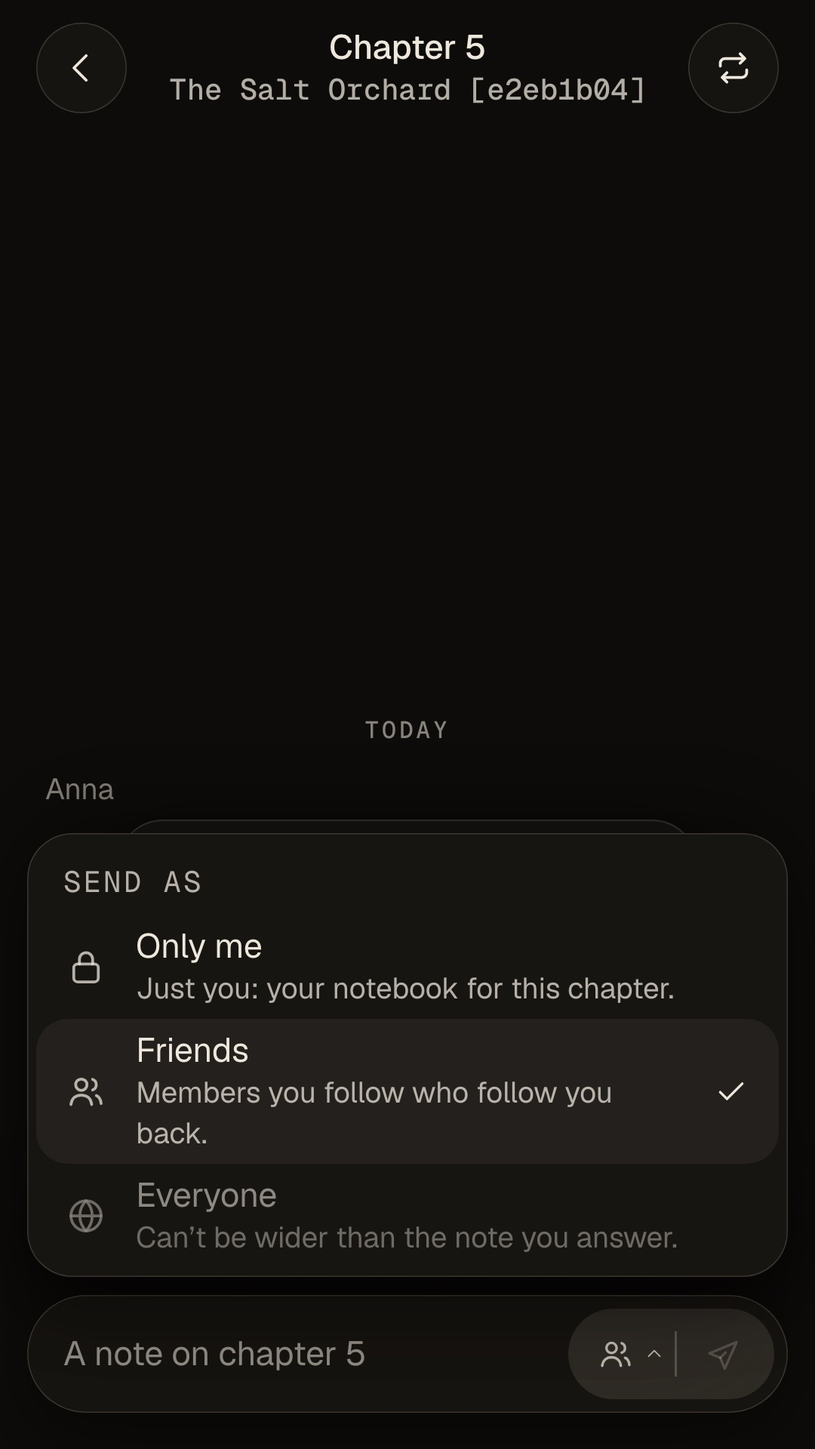
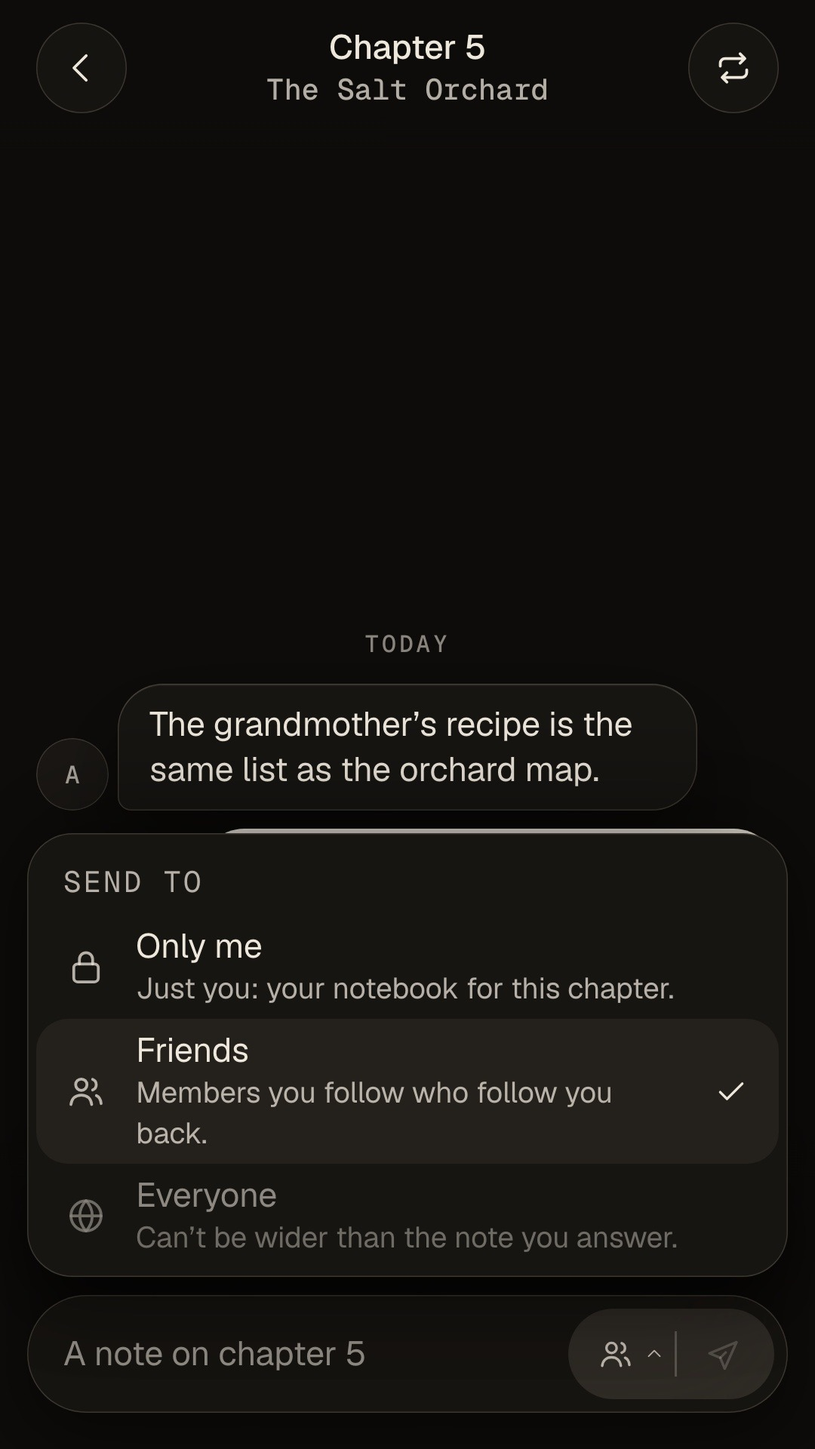
chore(notes): send to, and the new composer
@fabkho/ui v0.13.2: the tab and the menu of the split send button say
"Send to" / "Senden an" (the API names are unchanged), and the soft
keyboard stays up through a whole voice recording (it closes only on a
cancel). The app supplies ui.text from its own messages, so the words are
the app's: web/i18n/locales/en.json and de.json.

The Notes and buddy flows assert what a desktop browser can see of the
keyboard: the field stays mounted and focused through the hold, the lock
and the send, and is blurred only after a cancel.

diff --git a/web/e2e/notes-voice.spec.ts b/web/e2e/notes-voice.spec.ts
@@ -314,3 +314,99 @@ test('a send without a connection is told plainly, waits for a tap and is stored
   await ida.context().setOffline(false)
   expect(await voiceRows(idaMember.id)).toHaveLength(1)
 })
+
+/**
+ * The soft keyboard through a whole recording (@fabkho/ui 0.13.2). A desktop browser has no system keyboard, so it is emulated the
+ * way the base reads one: the layout viewport shrinks under the tallest height this width was seen at (291 px, the keyboard the
+ * docs' shots draw). What is asserted is what that reading drives and what the DOM shows: the capsule still says `data-keyboard`
+ * and still stands on the emulated keyboard, the field stays mounted and focused (`document.activeElement`) through the hold, the
+ * lock and the send — an unmounted field sends no blur, but it would take the keyboard with it — and only a cancel blurs it. The
+ * system keyboard itself is a real device's (docs/TESTING.md).
+ */
+test('the field keeps the keyboard through a whole voice note: hold, lock and send leave it mounted and focused, and only a cancel closes it @full', { tag: '@full' }, async ({ page: ida }) => {
+  test.setTimeout(120_000)
+  const idaMember = await signedIn(ida)
+  const bookId = await shelveBook(idaMember, sharedBook('The Voice Keyboard Flow'), 'reading')
+  await makeChapters(idaMember, bookId, 2)
+  await goto(ida, `/notes/${bookId}/1`)
+  await expect(ida.getByTestId('notesThread.screen')).toHaveAttribute('data-status', 'ready')
+  await chooseLevel(ida, 'private')
+
+  const input = ida.getByTestId('notesThread.input')
+  const capsule = ida.getByTestId('notesThread.composer')
+  /** Whose the page's focus is: the field's test id, or whatever else took it (the body, a button). */
+  const focused = () => ida.evaluate(() => document.activeElement?.getAttribute('data-testid') ?? document.activeElement?.tagName ?? 'none')
+  /** The field is in the page (not unmounted), out of the layout, and keeps the focus: what the vendor's fix does while a recording runs. */
+  const awayButFocused = async () => {
+    await expect(input).toHaveCount(1)
+    await expect(input).toHaveClass(/field-away/)
+    expect(await focused()).toBe('notesThread.input')
+  }
+  const stillUp = async (when: string) => {
+    await expect(capsule, when).toHaveAttribute('data-keyboard', 'true')
+    await expect(ida.getByTestId('notesThread.recorder'), when).toBeVisible()
+  }
+
+  // The keyboard up: the field takes the focus at the page's own height (the reading's tallest), then the layout viewport shrinks by the keyboard's 291 px.
+  const tall = ida.viewportSize()!
+  await input.click()
+  await expect(input).toBeFocused()
+  await ida.setViewportSize({ width: tall.width, height: tall.height - 291 })
+  await expect(capsule).toHaveAttribute('data-keyboard', 'true')
+  const onKeyboard = async (where: string) => {
+    const box = (await capsule.boundingBox())!
+    expect(box.y + box.height, where).toBeLessThanOrEqual(tall.height - 291 + 1)
+  }
+  await onKeyboard('the capsule at rest, on the emulated keyboard')
+
+  // A TAP on the microphone starts the recording: the field leaves the layout (never the page) and keeps the focus, and the capsule stays on the keyboard through the panel.
+  await ida.getByTestId(MIC).click()
+  await stillUp('a tap, recording')
+  await awayButFocused()
+  await onKeyboard('recording, on the emulated keyboard')
+  await expect(ida.getByTestId('notesThread.voiceTimer')).toHaveAttribute('data-ms', /^[1-9]\d{3}$/, { timeout: 10_000 })
+
+  // ✕ is the one end that closes it: the keyboard goes with the field's blur, and the field is back in the layout.
+  await ida.getByTestId('notesThread.voiceCancel').click()
+  await expect(ida.getByTestId('notesThread.recorder')).toHaveCount(0)
+  await expect(capsule).not.toHaveAttribute('data-keyboard', 'true')
+  expect(await focused()).not.toBe('notesThread.input')
+  await expect(input).not.toHaveClass(/field-away/)
+  expect(await voiceRows(idaMember.id)).toHaveLength(0)
+
+  // Up again, and a HOLD: the keyboard holds through the hold, the LOCK (the finger lets go, the recording goes on) and the panel's own send.
+  await input.click()
+  await expect(capsule).toHaveAttribute('data-keyboard', 'true')
+  const f = await finger(ida, MIC)
+  await f.down()
+  await stillUp('a hold to record')
+  await awayButFocused()
+  await expect(ida.getByTestId('notesThread.recorder')).toHaveAttribute('data-hold', 'true')
+  await expect(ida.getByTestId('notesThread.voiceTimer')).toHaveAttribute('data-ms', /^[1-9]\d{3}$/, { timeout: 10_000 })
+  await ida.waitForTimeout(700)
+  await f.move(-2, -35)
+  await f.move(-3, -80)
+  await f.up(-3, -80)
+  await expect(ida.getByTestId('notesThread.recorder')).not.toHaveAttribute('data-hold', 'true')
+  await stillUp('locked')
+  await awayButFocused()
+  await onKeyboard('locked, on the emulated keyboard')
+  await ida.getByTestId('notesThread.voiceSend').click()
+  await expect(ida.getByTestId('notesThread.recorder')).toHaveCount(0)
+  await expect(input).not.toHaveClass(/field-away/)
+  expect(await focused()).toBe('notesThread.input')
+  await expect(capsule).toHaveAttribute('data-keyboard', 'true')
+  await expect(voices(ida)).toHaveCount(1)
+  await expect.poll(async () => (await voiceRows(idaMember.id)).length, { timeout: 20_000 }).toBe(1)
+
+  // A take too short to send is no cancel either: said, thrown away, and the field has its focus and its keyboard back.
+  await ida.getByTestId(MIC).click()
+  await expect(ida.getByTestId('notesThread.recorder')).toBeVisible()
+  await ida.getByTestId('notesThread.voiceSend').click()
+  await expect(ida.getByTestId('notesThread.mediaError')).toHaveText(en.notes.error.voice_short)
+  await expect(ida.getByTestId('notesThread.recorder')).toHaveCount(0)
+  await expect(input).not.toHaveClass(/field-away/)
+  expect(await focused()).toBe('notesThread.input')
+  await expect(capsule).toHaveAttribute('data-keyboard', 'true')
+  expect(await voiceRows(idaMember.id)).toHaveLength(1)
+})

diff --git a/web/e2e/buddy-voice.spec.ts b/web/e2e/buddy-voice.spec.ts
@@ -98,15 +98,16 @@ test('Ida records a voice message in a Section thread; Ben gets it live and play
     await expect(ida.getByTestId('buddyThread.record')).toHaveCount(0)
     await ida.getByTestId('buddyThread.input').fill('')
 
-    // A tap starts: the capsule is the recording bar, the field gives way, the timer runs; ✕ throws it away and nothing is stored.
+    // A tap starts: the capsule is the recording bar, the field leaves the layout but stays in the page (its focus keeps the soft keyboard up, `@fabkho/ui` 0.13.2), the timer runs; ✕ throws it away and nothing is stored.
     await ida.getByTestId('buddyThread.record').click()
     await expect(ida.getByTestId('buddyThread.recorder')).toBeVisible()
-    await expect(ida.getByTestId('buddyThread.input')).toHaveCount(0)
+    await expect(ida.getByTestId('buddyThread.input')).toHaveCount(1)
+    await expect(ida.getByTestId('buddyThread.input')).toHaveClass(/field-away/)
     await expect(ida.getByTestId('buddyThread.recordingStatus')).toContainText(en.uiText.chat.voice.recording)
     await expect(ida.getByTestId('buddyThread.voiceTimer')).not.toHaveText('0:00', { timeout: 5_000 })
     await ida.getByTestId('buddyThread.voiceCancel').click()
     await expect(ida.getByTestId('buddyThread.recorder')).toHaveCount(0)
-    await expect(ida.getByTestId('buddyThread.input')).toBeVisible()
+    await expect(ida.getByTestId('buddyThread.input')).not.toHaveClass(/field-away/)
     expect(await sql(`select 1 from public.buddy_messages where buddy_read_id = $1 and kind = 'voice'`, [made.id])).toHaveLength(0)
 
     // A slip of the finger is no message: said above the thread, nothing stored.

diff --git a/web/e2e/book-notes.spec.ts b/web/e2e/book-notes.spec.ts
@@ -59,7 +59,7 @@ async function chooseLevel(page: Page, level: 'private' | 'friends' | 'public') 
   await expect(page.getByTestId('notesThread.sendAsMenu')).toHaveCount(0)
 }
 
-/** The audience is on the button itself, before anything is sent: the tab ("Send as: Everyone") and the send button ("Send · Everyone") name it. */
+/** The audience is on the button itself, before anything is sent: the tab ("Send to: Everyone") and the send button ("Send · Everyone") name it. */
 async function expectLevel(page: Page, level: 'private' | 'friends' | 'public', words: typeof en | typeof de = en) {
   // The tab is always there; the send button says the audience too, but at Only me with an empty field the microphone stands in its place (a voice note).
   await expect(page.getByTestId('notesThread.sendAs')).toHaveAttribute('aria-label', `${words.uiText.chat.composer.sendAs}: ${words.notes.level[level]}`)

diff --git a/web/e2e/a11y.spec.ts b/web/e2e/a11y.spec.ts
@@ -547,7 +547,7 @@ test.describe('accessibility, notes', { tag: '@full' }, () => {
     await expectAccessible(page, 'the Show anyway question')
     await page.getByTestId('notes.showAnyway.cancel').click()
 
-    // Her chapter: the thread, the split send button (a tab named "Send as: …", a send button named "Send · …", both 44 px; its menu of radios), the action bar's sheets.
+    // Her chapter: the thread, the split send button (a tab named "Send to: …", a send button named "Send · …", both 44 px; its menu of radios), the action bar's sheets.
     await goto(page, `/notes/${bookId}/3`)
     await expect(page.getByTestId('notesThread.bubble').filter({ hasText: 'A friend’s note' })).toBeVisible()
     await expectAccessible(page, 'a chapter')

diff --git a/docs/parity.md b/docs/parity.md
@@ -1460,8 +1460,8 @@ Layout: the round back, the title ("Chapter 5", the Book under it), Refresh; the
 The veil: a chapter that is not open to her (her chapter has not reached it and she has not opened it anyway) is **not read at all**: the quiet screen "Chapter 9 is hidden" with **Show anyway** and nothing of the chapter asked of the database before her yes; with it, the thread opens and focus goes to the composer. A chapter that does not exist, or a Book without Notes: one quiet answer.
 States: loading · empty ("No notes on chapter 5 yet.") · notes · veiled · missing · error with the thread kept · offline (writes say Offline).
 Actions → result: send, reply (swipe or the bar), react (double tap puts ❤; one reaction a member and note), copy, delete (confirm: "Note removed" for everyone who could see it), report, block, change her note's audience, refresh, Show anyway.
-**Voice notes, for her own private notes** (docs/plans/book-notes.md; `supabase/migrations/20261118010000_notes_private_voice.sql`). The composer draws the microphone **only while the split send button is on Only me** (`voiceMaxMs` is passed for that one option, and only when the note is new or answers her own live private note: a voice answer to anybody else's note is refused by the database). At Friends or Everyone there is no microphone and the button shows Send; an answer is offered only while the quoted note is her own private one (a Reply tapped on another note while a recording ran is dropped with its quote, never sent to be refused by the database); the button's tab is away while a recording runs (the composer shows the recording), so the audience cannot change under a recording, and a recording that reaches the send at another audience is not posted (it is dropped, with "A voice note is always just for you."). A tap on the microphone records in the panel (✕, the live bars, the timer, send); **hold** records and **let go** sends, **slide up** locks, **slide left** throws it away (the base's gestures, the same haptics, the same single-pointer alternative as a buddy read's). Up to two minutes, 3 MB, a slip of the finger under a second is no note. A recording is a **private note of its own**: her bubble at once (the base's voice bubble: play or pause, progress, length, waveform), the lock and **Only me** under it like her other private notes, no Spoiler and no audience to give. It is stored in her own folder of the private bucket `note-voice` first and posted after (`post_note_voice`, private, no visibility parameter), through the same send queue as a text; **offline** the recording is kept in memory, the bubble reads "You're offline." with **Try again** (stores and posts it from the copy in memory) and **Delete**, nothing is lost until she leaves the page (a reload loses a recording that was not stored yet, the same as a buddy read's); one that waited more than 4 hours in the line is not sent ("That recording didn't upload."). **Nothing is signed or fetched when a thread loads**: the first press on play asks for a URL of five minutes (`createSignedUrl`, kept for four), a second press pauses, one voice at a time, leaving the thread silences it; a note she has just recorded plays from the copy on her device. Nobody but her ever sees a voice note: not in anyone's thread, count, face or Book line, not for her friends, Everyone, the owner or a blocked member, and nobody can sign a URL for it (the bucket's policy lets its author alone through). **Who can see this** shows a voice note as **Only me** alone, with the line "A voice note stays Only me: only you can ever hear it." (the database refuses to widen one: `voice_private_only`). The quote of a voice note, over her answer and in the composer, reads **Voice message** (*Sprachnachricht*). Deleting one leaves "Note removed" and the sound is removed from storage shortly after, normally within the hour (and the owner's removal, and her account's deletion, the same).
-Edge cases: nothing about the audience can fold with the keyboard (it lives in the send button, which is always there); the Everyone line stays over the capsule while the field has the keyboard; German up to half as long again wraps and the button fits 360 px (*Nur ich · Freunde · Alle*); every control is 44 px. A voice note's bar has no Copy (it has no words); its bar otherwise is her other notes': the six reactions, Reply, **Who can see this**, **Delete**.
+**Voice notes, for her own private notes** (docs/plans/book-notes.md; `supabase/migrations/20261118010000_notes_private_voice.sql`). The composer draws the microphone **only while the split send button is on Only me** (`voiceMaxMs` is passed for that one option, and only when the note is new or answers her own live private note: a voice answer to anybody else's note is refused by the database). At Friends or Everyone there is no microphone and the button shows Send; an answer is offered only while the quoted note is her own private one (a Reply tapped on another note while a recording ran is dropped with its quote, never sent to be refused by the database); the button's tab is away while a recording runs (the composer shows the recording), so the audience cannot change under a recording, and a recording that reaches the send at another audience is not posted (it is dropped, with "A voice note is always just for you."). A tap on the microphone records in the panel (✕, the live bars, the timer, send); **hold** records and **let go** sends, **slide up** locks, **slide left** throws it away (the base's gestures, the same haptics, the same single-pointer alternative as a buddy read's). **The soft keyboard stays up through the recording** (`@fabkho/ui` 0.13.2): the field is never unmounted for it — it leaves the layout (one drawn pixel, `tabindex="-1"`, still in the page and the accessibility tree) and keeps the focus, so the capsule stays over the keyboard through the hold, the lock and the panel; a recording that was sent, too short or failed gives the field its focus back, and only a cancel (✕, a slide away) blurs it and closes the keyboard. A composer at rest stays at rest: recording never opens one. Up to two minutes, 3 MB, a slip of the finger under a second is no note. A recording is a **private note of its own**: her bubble at once (the base's voice bubble: play or pause, progress, length, waveform), the lock and **Only me** under it like her other private notes, no Spoiler and no audience to give. It is stored in her own folder of the private bucket `note-voice` first and posted after (`post_note_voice`, private, no visibility parameter), through the same send queue as a text; **offline** the recording is kept in memory, the bubble reads "You're offline." with **Try again** (stores and posts it from the copy in memory) and **Delete**, nothing is lost until she leaves the page (a reload loses a recording that was not stored yet, the same as a buddy read's); one that waited more than 4 hours in the line is not sent ("That recording didn't upload."). **Nothing is signed or fetched when a thread loads**: the first press on play asks for a URL of five minutes (`createSignedUrl`, kept for four), a second press pauses, one voice at a time, leaving the thread silences it; a note she has just recorded plays from the copy on her device. Nobody but her ever sees a voice note: not in anyone's thread, count, face or Book line, not for her friends, Everyone, the owner or a blocked member, and nobody can sign a URL for it (the bucket's policy lets its author alone through). **Who can see this** shows a voice note as **Only me** alone, with the line "A voice note stays Only me: only you can ever hear it." (the database refuses to widen one: `voice_private_only`). The quote of a voice note, over her answer and in the composer, reads **Voice message** (*Sprachnachricht*). Deleting one leaves "Note removed" and the sound is removed from storage shortly after, normally within the hour (and the owner's removal, and her account's deletion, the same).
+Edge cases: nothing about the audience can fold with the keyboard (it lives in the send button, which is always there); its tab and its menu say whom the note goes to, not how it is sent (**"Send to"**, "Senden an"; the API names are `sendAs`/`sendOptions`); the Everyone line stays over the capsule while the field has the keyboard; German up to half as long again wraps and the button fits 360 px (*Nur ich · Freunde · Alle*); every control is 44 px. A voice note's bar has no Copy (it has no words); its bar otherwise is her other notes': the six reactions, Reply, **Who can see this**, **Delete**.
 Copy keys: `notes.thread.*` (`voiceQuote`, `voicePlayFailed`), `notes.visibilitySheet.voiceOnly`, `notes.report.*`, `notes.showAnyway.*`, `notes.error.*` (`voice_invalid`, `voice_missing`, `voice_too_large`, `voice_private_only`, `voice_short`, `voice_large`, `voice_type`), `people.block*`, `uiText.chat.*`
 IDs: `notesThread` (`.input`, `.send`, `.bubble`, `.message`, `.sender`, `.name`, `.public`, `.private`, `.quote`, `.quotePreview`, `.removed`, `.failed`, `.retry`, `.discard`, `.veil` (only on a message flagged in the old days: never drawn), `.reactionBar`, `.reactionAction.visibility|delete|report|block`, `.reactionReply`, `.quoteBar`, `.split`, `.sendAs` (the tab), `.sendAsWord`, `.sendAsMenu`, `.sendAs.private|friends|public`, and the voice parts the base draws: `.record`, `.recorder`, `.voiceTimer`, `.voiceSend`, `.voiceCancel`, `.holdHint`, `.mediaError`, `.voice`, `.voicePlay`, `.voiceWave`, `.voiceTime`), `notes.thread.title|book|empty|back|refresh|veiled|showAnyway|missing`, `notes.thread.delete` (`.confirm`), `notes.thread.block` (`.confirm`), `notes.report` (`.reason.<r>`, `.note`, `.action`, `.done`, `.close`, `.error`), `notes.visibilitySheet.voiceOnly`
 Flow: `web/e2e/book-notes.spec.ts` (writes at Friends, answers after Show anyway, the quote of a note she cannot see, a report, a block; the split send button: the control there at every moment, each choice posted as chosen, a reply's Everyone off); `web/e2e/notes-voice.spec.ts` (`@full`, Chromium with a fake microphone: the microphone at Only me and not at Friends or Everyone, record, the lock, a reload and nothing asked of the bucket until play, the friend sees nothing, the sheet cannot widen, delete and the sweep; hold, slide, an answer only to her own private note); `e2e/a11y.spec.ts` ("accessibility, notes"); the 7 buddy specs are the guard for the shared components.

diff --git a/docs/images/notes-composer-app/README.md b/docs/images/notes-composer-app/README.md
@@ -1,26 +1,29 @@
 # The composer, as it ships
 
 Shots of the built app (Chromium with a fake microphone, iPhone 15 in the flows' own configuration, device pixel ratio 3: WebKit cannot fake a
-microphone, and the microphone at Only me is half of what these show) after the split send button, the end of the spoiler marks, and the private
-voice notes: `docs/parity.md` (*Notes, a chapter*, *Notes, visibility*, *Buddy read, a thread*) and `docs/plans/notes-composer.md` (V3).
+microphone, and the microphone at Only me is half of what these show) after the split send button, the end of the spoiler marks, the private
+voice notes, and `@fabkho/ui` 0.13.2 (the tab and the menu say **Send to** / **Senden an**, and the field keeps the soft keyboard through a
+whole recording): `docs/parity.md` (*Notes, a chapter*, *Notes, visibility*, *Buddy read, a thread*) and `docs/plans/notes-composer.md` (V3).
 
 | Prefix | What |
 |---|---|
 | `1-rest` | a chapter's thread at rest: the capsule with the split send button on Friends |
-| `2-menu` | the tab opened: *Send as* — Only me, Friends (checked), Everyone, each with its line |
+| `2-menu` | the tab opened: *Send to* — Only me, Friends (checked), Everyone, each with its line |
 | `3-typing-keyboard` | typing, with a keyboard under it (291 px, drawn: WebKit has none); the button is untouched by the keyboard |
 | `3b-menu-keyboard` | the same with the menu open: it drops the hint lines where the keyboard leaves it little room |
 | `4-everyone` | *Everyone*: the send button in the lamp amber, the tab's word, the one quiet line over the capsule |
 | `5-onlyme` | *Only me*: the calm button, the tab's word, the note free to be written |
 | `5b-onlyme-mic` | *Only me* with nothing written: the **microphone** stands where Send is (a voice note is only ever hers) |
 | `5c-onlyme-typing-keyboard` | *Only me*, typing: Send again, the tab still says the audience |
+| `5d-onlyme-recording-keyboard` | *Only me*, a **hold** in progress: the keyboard stays up under the recording (the field kept the focus), the timer and "Slide to cancel" in the capsule |
+| `5e-onlyme-locked` | *Only me*, **locked**: the recording goes on without the finger, the panel (✕, the bars, the timer, send) on the keyboard that never went away |
 | `6-reply-menu` | answering Anna's Friends note: *Everyone* is in the menu, off, with the reason |
 | `7-buddy-rest` | a buddy-read Section: the field, the microphone, no Spoiler chip and nothing over the field |
 | `8-buddy-typing-keyboard` | the same, typing, with the keyboard |
 
 Four passes: 390×844 light EN, 390×844 dark DE, 360×640 light DE, 360×640 dark EN.
 
-They were taken by a throwaway Playwright spec (the flows' fixtures: a friend, a Book with 43 chapters, a buddy read) that screenshots the
+They were taken by a throwaway Playwright spec (the flows' fixtures: a friend, a Book with 43 chapters) that screenshots the
 page, shrinks the viewport by the keyboard's height, and composes the drawn keyboard under the shot. It is not committed: it is a few lines on
 `e2e/fixtures.ts` and the `@playwright/test` page API, and the mocks in `docs/prototypes/notes-composer/` (that PR) still exercise the same
 composer interactively.

diff --git a/docs/ACCESSIBILITY.md b/docs/ACCESSIBILITY.md
@@ -175,8 +175,12 @@ shimmer stops, the tab bar stays.
   "Recording"; the bubble's play button, length and waveform are the base's `UiVoiceBubble` (named, 44 px, `aria-live` on the play state); the lock and "Only me"
   under it are text, not colour. The quote of a voice note reads "Voice message" for a screen reader. `e2e/notes-voice.spec.ts` scans the thread with a voice
   note and a thread while recording in both colour schemes. VoiceOver and TalkBack on a real phone were not tried in this change.
+  **The keyboard stays up while a voice note records** (the base's fix in `@fabkho/ui` 0.13.2): the field is never unmounted for a recording, so a
+  screen reader has not lost it either — it leaves the layout (one drawn pixel, transparent, out of the tab order) and keeps its name, its text and
+  its focus. `e2e/notes-voice.spec.ts` asserts what a desktop browser can see of that: the field stays mounted and focused (`document.activeElement`)
+  through the hold, the lock and the send, and is blurred only after a cancel; the system keyboard itself is a device's (docs/TESTING.md).
   **Notes** (the Notes page, a chapter, the Book page's section, the Remove note dialog): `e2e/a11y.spec.ts` ("accessibility, notes") scans the page, a chapter,
-  a veiled chapter and the sheets she opens from them in both colour schemes, and checks that the audience control, the split send button, is a menu button (`aria-haspopup="menu"`) named "Send as: Friends" beside a send button named "Send · Friends", its menu
+  a veiled chapter and the sheets she opens from them in both colour schemes, and checks that the audience control, the split send button, is a menu button (`aria-haspopup="menu"`) named "Send to: Friends" beside a send button named "Send · Friends", its menu
   a `menu` of `menuitemradio`s of 44 px that the arrows move and Escape closes (a level held back by the note she answers is `aria-disabled`, not removed), and axe scans the open menu; `e2e/book-notes.spec.ts` scans the chapter in
   German at 360 px and checks nothing runs out of the screen. A veiled chapter's row is named "Chapter 9, 12 comments, hidden" and holds no word of it.
   A violation that cannot be fixed in BetterReads goes in `ALLOWED` in `e2e/support.ts` with its reason

diff --git a/docs/plans/book-notes.md b/docs/plans/book-notes.md
@@ -480,7 +480,7 @@ edit here in the PR that changes it.
 | 25 | Moderation minimum: report at every level, block from a note, owner removal with a 12-month record | decided (coordinator, delegated; can be overturned) |
 | 26 | Limits: 30 notes a minute, 300 a day, 30 public a day, 20 chapter changes a day | decided (coordinator, delegated; can be overturned) |
 | 27 | A deleted note leaves "Note removed" (as in buddy reads) | decided (coordinator, delegated; can be overturned) |
-| 28 | The audience is chosen on the composer's split send button (the tab opens Only me / Friends / Everyone; the button's icon and tone are the cue), not in a row over the field (`docs/plans/notes-composer.md`, V3) | owner's decision |
+| 28 | The audience is chosen on the composer's split send button (the tab opens Only me / Friends / Everyone; the button's icon and tone are the cue), not in a row over the field (`docs/plans/notes-composer.md`, V3). The tab and the menu say whom the note goes to, not how it is sent — **"Send to"** / "Senden an" (`uiText.chat.composer.sendAs`, `@fabkho/ui` 0.13.2; the API names `sendAs`/`sendOptions` keep their names) — and the soft keyboard stays up through a voice note: the field leaves the layout for the recording but keeps the focus, so only a cancel closes the keyboard | owner's decision |
 | 29 | No spoiler marks on single messages in chapter chats, in Notes and in buddy-read Sections: a chapter is opened to be read; the chapter veil by the reader's own position stays; the `spoiler` column and the `p_spoiler` parameters stay for compatibility and are ignored | owner's decision |
 
 **Most worth the owner's later look:** 22 (his photo goes to every member on a public note), 21 (Everyone on now, and the rule
